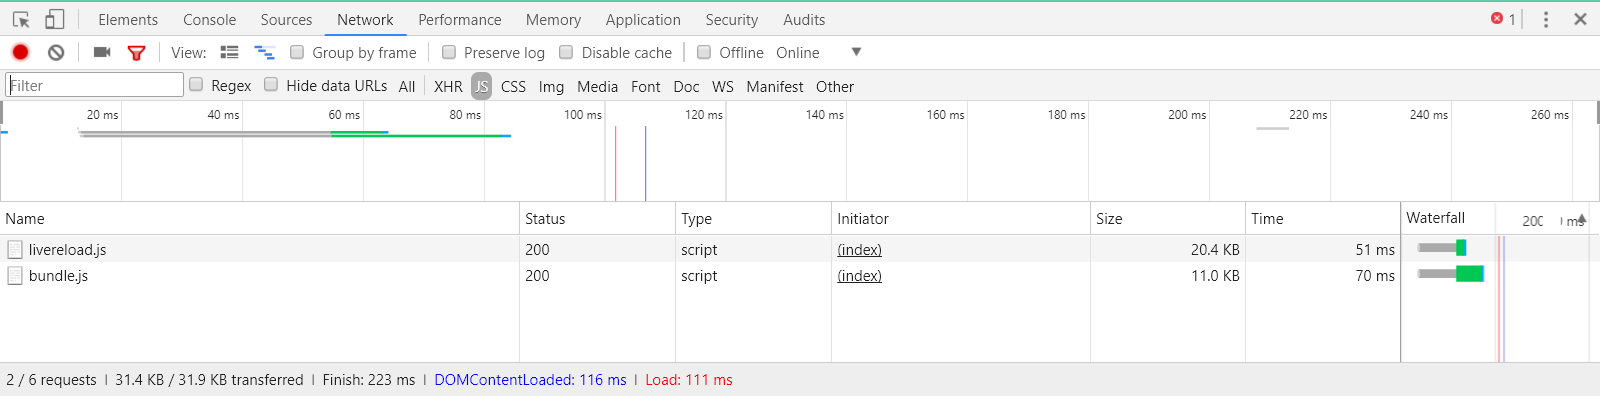
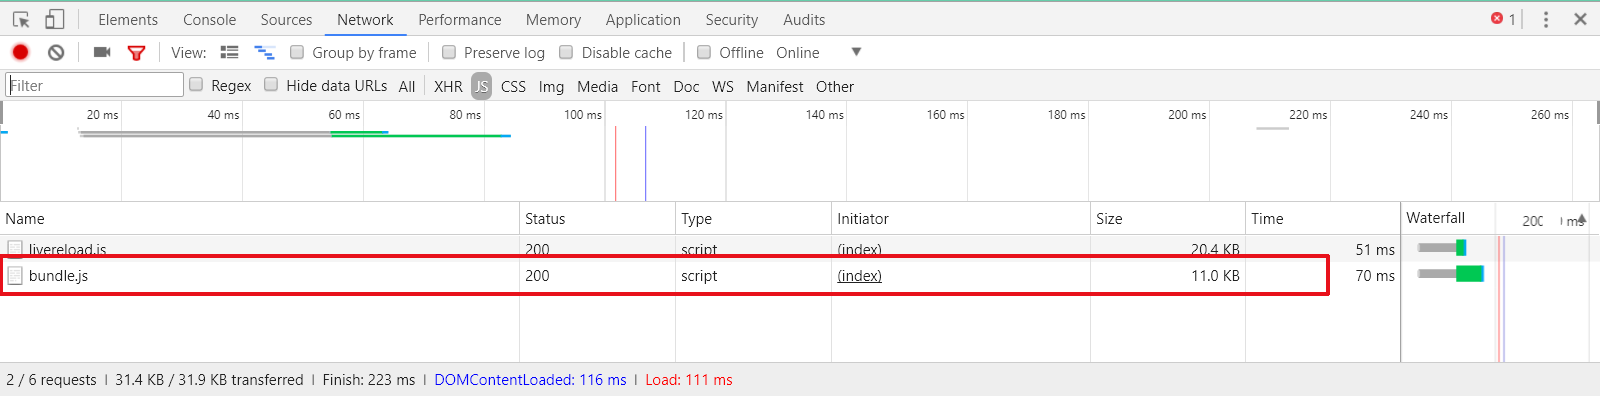
added img highlights

Changed region(s): [[0.0, 0.7273, 0.8438, 0.7576], [0.0, 0.6364, 0.8438, 0.6667]]

diff --git a/readme.md b/readme.md
@@ -23,7 +23,7 @@ npm start
 3. If you see a message at the bottom, you might have to press `F5`. Go ahead and do that.
 4. Click JS in the Filter menu.
 You will see the sizes of the different JS files
-![alt text](https://github.com/peterbarraud/rapo-browserify-budo-functionaljs/blob/master/imgs/network-tab-with-lodash.png)
+![alt text](blob/master/imgs/network-tab.png)
 
 ## Include underscore
 1. Get `underscore`
